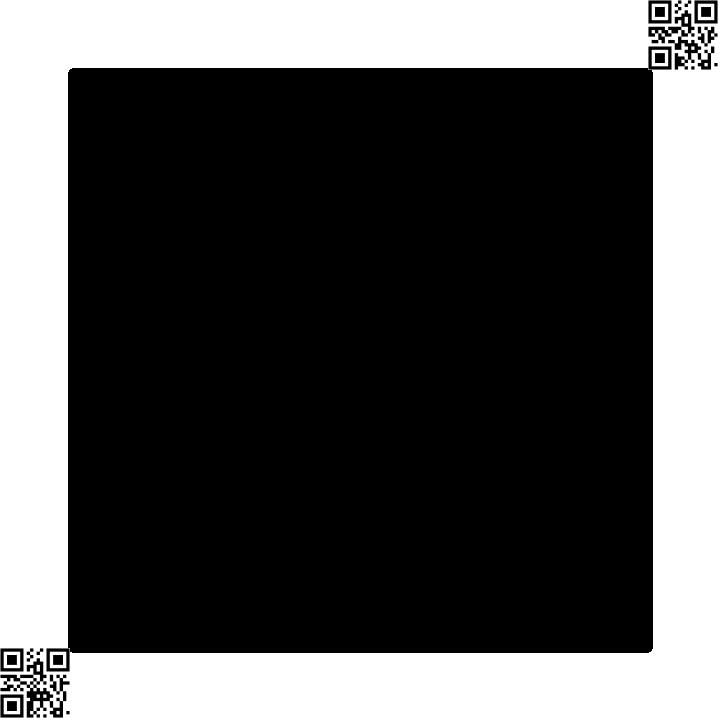
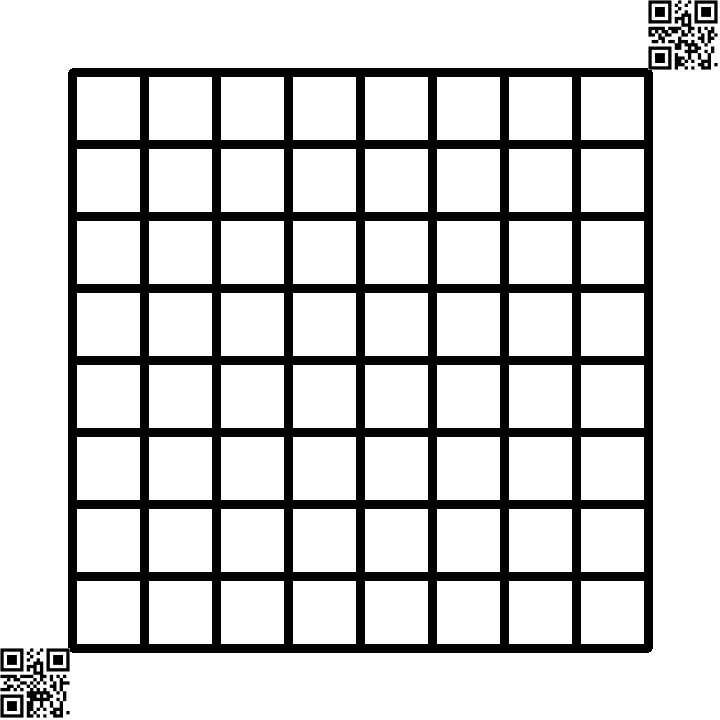
Fixes
Fixes

diff --git a/DnD VR Package Generator/src/Exporter.cpp b/DnD VR Package Generator/src/Exporter.cpp
@@ -83,15 +83,6 @@ void Game::createIMG(string path) {
 		}
 	}
 
-	vector<vector<Point> > cnt;
-	vector<Vec4i> hier;
-	findContours(img, cnt, hier, RETR_EXTERNAL, CHAIN_APPROX_SIMPLE);
-
-	int idx = 0;
-	for (; idx >= 0; idx = hier[idx][0]){
-		drawContours(img, cnt, idx, 255, FILLED, 8, hier);
-	}
-
 	img = ~img;
 
 	Mat ne = imread((path + "/NE.png").c_str(), IMREAD_GRAYSCALE);
@@ -145,7 +136,7 @@ void Game::createXML(string path) {
 		string name = actor.getName();
 		int id = actor.getID();
 
-		XMLElement* xactor = doc.NewElement("model");
+		XMLElement* xactor = doc.NewElement("actor");
 		xactor->SetAttribute("id", to_string(i).c_str());
 		xactor->SetAttribute("name", name.c_str());
 		xactor->SetAttribute("model_id", to_string(id).c_str());
